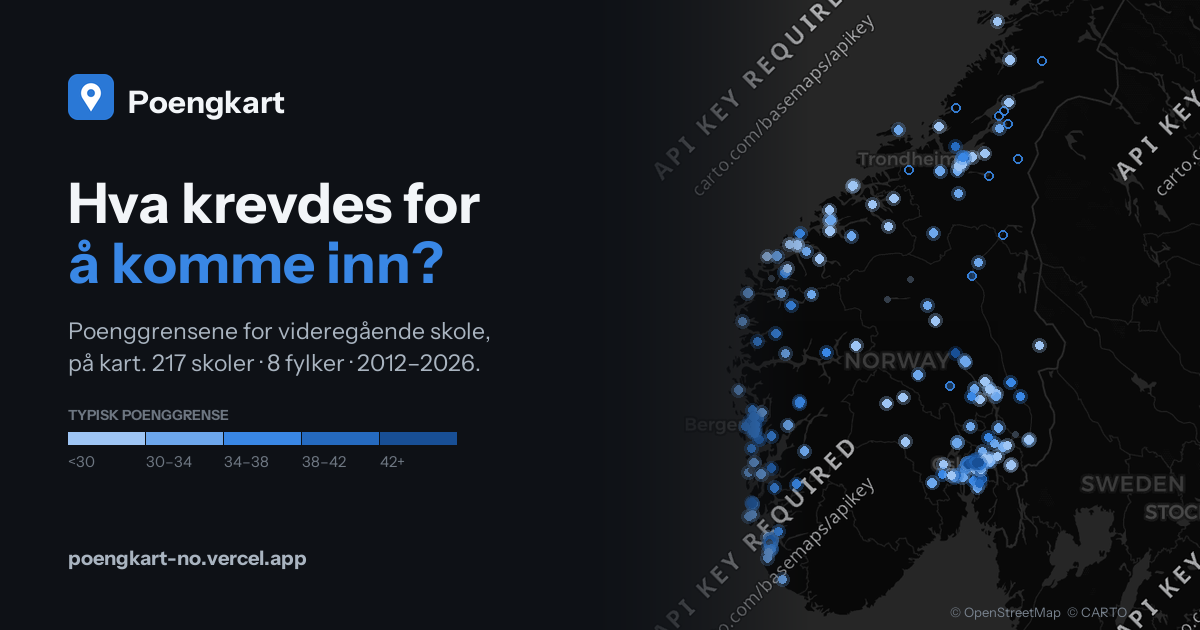
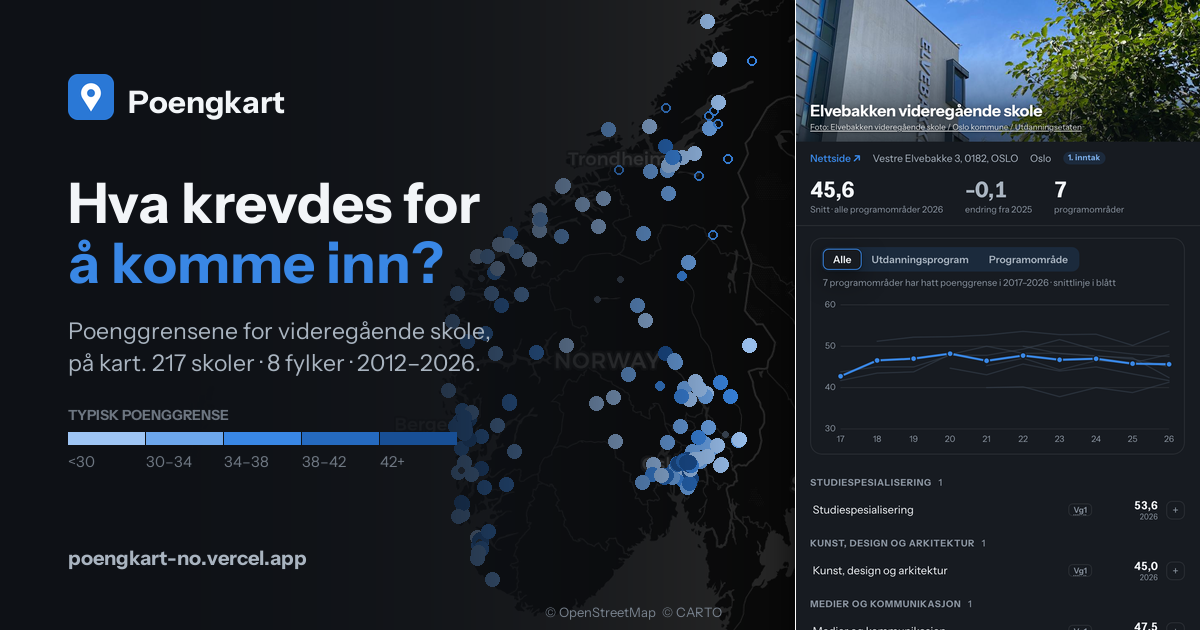
The share card loses its watermark and gains a school
The card fetched CARTO tiles without the key the app passes, so every tile
came back stamped API KEY REQUIRED; the key is now read from the page, where
the one copy of it lives.

It also shows what the app is for. The right-hand edge carries Elvebakken's
own school page — photo, the 45,6 headline, ten years of chart — photographed
from a local copy of web/ rather than mocked up, so the card cannot advertise
a layout the site does not have. The map keeps the rest of the width with
Norway and its dots still legible behind the text.

The capture wants Playwright. Every successful one is written to
tools/og-panel.png, so a refresh on a machine with no browser still builds a
correct card from the last photograph instead of failing.

diff --git a/tools/make_og.py b/tools/make_og.py
@@ -2,30 +2,47 @@
 """Render web/og.png — the 1200x630 card that messaging apps and social
 networks show when someone pastes the link.
 
-It is drawn from the real dataset on a real basemap, not mocked up: the same
-CARTO tiles the app uses, with one dot per school coloured by the same five
-threshold bins as the in-app legend. A preview that shows the actual map is
-also the honest thing to put in front of someone deciding whether to click.
+Nothing on it is mocked up. The map is the real basemap with one dot per
+school, coloured by the same five threshold bins as the in-app legend; the
+panel down the right-hand side is the app's own school page, photographed
+from a local copy of web/ so the card can never advertise a layout the site
+does not have. A preview that shows the actual product is also the honest
+thing to put in front of someone deciding whether to click.
+
+The capture needs Playwright:
+
+    .venv/bin/pip install playwright
+    .venv/bin/playwright install chromium-headless-shell
+
+Without it the build falls back to tools/og-panel.png, the last capture,
+which is committed for exactly that reason — a refresh on a machine with no
+browser still produces a correct card, only an older photograph of the panel.
 
 Attribution for the tiles is painted onto the card itself, because an image
 travels without the page that credits them.
 """
+import functools
+import http.server
 import io
 import json
 import math
 import os
+import re
+import socketserver
+import threading
 import urllib.request
 
 from PIL import Image, ImageDraw, ImageFilter, ImageFont
 
 HERE = os.path.dirname(os.path.abspath(__file__))
 WEB = os.path.join(HERE, '..', 'web')
+INDEX = os.path.join(WEB, 'index.html')
 DATA = os.path.join(WEB, 'data', 'schools.json')
 CACHE = os.path.join(HERE, '.cache')
+PANEL_FALLBACK = os.path.join(HERE, 'og-panel.png')
 UA = {'User-Agent': 'poengkart/0.1 (og image build)'}
 
 W, H = 1200, 630
-MAP_W = 620                      # right-hand map panel
 BG = (14, 17, 22)                # --page, dark
 INK = (242, 245, 248)
 INK2 = (169, 180, 192)
@@ -35,6 +52,12 @@ ACCENT = (57, 135, 229)
 BINS = [(30, (158, 197, 244)), (34, (109, 167, 236)), (38, (57, 135, 229)),
         (42, (37, 106, 191)), (99, (24, 79, 149))]
 EDGES = ['<30', '30–34', '34–38', '38–42', '42+']
+
+# The school on the card. Elvebakken has a photograph with sky and greenery in
+# it, ten years of history, and figures from a county everyone recognises.
+PANEL_SCHOOL = ('Oslo', 'Elvebakken videregående skole')
+PANEL_W = 405                    # how wide the panel is on the card
+SIDE_CSS_W = 480                 # what the app renders it at
 
 
 # ----------------------------------------------------------------- fonts
@@ -67,6 +90,18 @@ def font(size, weight='regular'):
 
 
 # ------------------------------------------------------------------ tiles
+def carto_key():
+    """The app's own CARTO key, read from the page so there is one copy of it.
+
+    Without a key the tiles come back stamped API KEY REQUIRED across the
+    diagonal — which is exactly what the shared card showed until 4 Sept 2026.
+    """
+    m = re.search(r"const CARTO_KEY = '([^']+)'", open(INDEX, encoding='utf-8').read())
+    if not m:
+        raise SystemExit('CARTO_KEY not found in web/index.html')
+    return m.group(1)
+
+
 def merc(lat, lon, z, tile=512):
     n = 2 ** z
     x = (lon + 180) / 360 * n * tile
@@ -77,6 +112,7 @@ def merc(lat, lon, z, tile=512):
 
 def basemap(cx_lat, cx_lon, z, win_w, win_h, tile=512):
     """Stitch CARTO dark tiles into a window centred on a point."""
+    key = carto_key()
     cx, cy = merc(cx_lat, cx_lon, z, tile)
     x0, y0 = cx - win_w / 2, cy - win_h / 2
     tx0, ty0 = int(x0 // tile), int(y0 // tile)
@@ -85,7 +121,7 @@ def basemap(cx_lat, cx_lon, z, win_w, win_h, tile=512):
     for tx in range(tx0, tx1 + 1):
         for ty in range(ty0, ty1 + 1):
             url = (f'https://a.basemaps.cartocdn.com/dark_all/{z}/{tx}/{ty}'
-                   f'{"@2x" if tile == 512 else ""}.png')
+                   f'{"@2x" if tile == 512 else ""}.png?key={key}')
             try:
                 blob = urllib.request.urlopen(
                     urllib.request.Request(url, headers=UA), timeout=25).read()
@@ -131,6 +167,87 @@ def colour(v):
     return next(c for edge, c in BINS if v < edge)
 
 
+# ------------------------------------------------------------------ the panel
+class _Quiet(http.server.SimpleHTTPRequestHandler):
+    def log_message(self, *a):
+        pass
+
+
+def serve_web():
+    """Serve web/ on a free port, so the panel is photographed from the build
+    that is about to ship rather than from whatever production still has."""
+    handler = functools.partial(_Quiet, directory=os.path.abspath(WEB))
+    srv = socketserver.TCPServer(('127.0.0.1', 0), handler)
+    threading.Thread(target=srv.serve_forever, daemon=True).start()
+    return srv, f'http://127.0.0.1:{srv.server_address[1]}/'
+
+
+def capture_panel(css_h):
+    """Photograph the app's school page: the real photo, figures and chart.
+
+    Two pieces of chrome are hidden first. The close button is a control, not
+    content, and the "skriv inn poengene dine" nudge asks the reader to type
+    into a field the card does not have.
+    """
+    from playwright.sync_api import sync_playwright
+    fylke, name = PANEL_SCHOOL
+    srv, base = serve_web()
+    try:
+        with sync_playwright() as p:
+            b = p.chromium.launch()
+            ctx = b.new_context(viewport={'width': 1500, 'height': 1100},
+                                device_scale_factor=2, color_scheme='dark', locale='nb-NO')
+            ctx.add_init_script("""
+                localStorage.setItem('pk-theme', 'dark');
+                localStorage.setItem('pk-intro-v1', '1');
+                localStorage.setItem('pk-help-hint', '9');
+                localStorage.removeItem('pk-points');
+            """)
+            page = ctx.new_page()
+            url = f'{base}#s={urllib.request.quote(fylke)}/{urllib.request.quote(name)}'
+            page.goto(url, wait_until='networkidle')
+            page.reload(wait_until='networkidle')
+            page.wait_for_selector('#side .chart-card', timeout=30000)
+            page.wait_for_timeout(2500)
+            page.evaluate("""() => {
+                document.querySelectorAll('#side .close').forEach(e => e.style.display = 'none');
+                document.querySelectorAll('#side .chance').forEach(e => {
+                    if (/Skriv inn|Enter your/.test(e.textContent)) e.style.display = 'none';
+                });
+            }""")
+            page.wait_for_timeout(400)
+            got = page.evaluate("""() => {
+                const r = document.querySelector('#side .scroll').getBoundingClientRect();
+                const n = document.querySelector('#s-photo .name');
+                return { x: r.x, y: r.y, w: r.width, name: n ? n.textContent.trim() : '' };
+            }""")
+            if not got['name'].startswith(name):
+                raise RuntimeError(f'the panel shows {got["name"]!r}, not {name!r}')
+            blob = page.screenshot(clip={'x': got['x'], 'y': got['y'],
+                                         'width': got['w'], 'height': css_h},
+                                   animations='disabled', timeout=60000)
+            b.close()
+    finally:
+        srv.shutdown()
+    im = Image.open(io.BytesIO(blob)).convert('RGB')
+    im.save(PANEL_FALLBACK, optimize=True)     # keep the fallback current
+    return im.convert('RGBA')
+
+
+def panel_image(css_h):
+    try:
+        im = capture_panel(css_h)
+        print(f'  panel captured from the local build: {PANEL_SCHOOL[1]}')
+        return im
+    except Exception as e:
+        if not os.path.exists(PANEL_FALLBACK):
+            raise SystemExit(f'no panel: capture failed ({type(e).__name__}: {e}) '
+                             f'and {PANEL_FALLBACK} is missing')
+        print(f'  panel capture skipped ({type(e).__name__}: {e}); '
+              f'using the committed tools/og-panel.png')
+        return Image.open(PANEL_FALLBACK).convert('RGBA')
+
+
 # ------------------------------------------------------------------ card
 def main():
     data = json.load(open(DATA))
@@ -142,19 +259,20 @@ def main():
     cx_lat = (max(lats) + min(lats)) / 2
     cx_lon = (max(lons) + min(lons)) / 2
 
+    # the map fills the whole card; the panel is laid over its right-hand end
     z, tile = 5, 512
     span_y = merc(min(lats), cx_lon, z, tile)[1] - merc(max(lats), cx_lon, z, tile)[1]
     win_h = span_y * 1.13                      # a little sea above and below
-    win_w = win_h * MAP_W / H
-    panel, (x0, y0) = basemap(cx_lat, cx_lon, z, win_w, win_h, tile)
-    scale = MAP_W / win_w
-    panel = panel.resize((MAP_W, H), Image.LANCZOS)
+    win_w = win_h * W / H
+    m, (x0, y0) = basemap(cx_lat, cx_lon, z, win_w, win_h, tile)
+    scale = W / win_w
+    m = m.resize((W, H), Image.LANCZOS).convert('RGBA')
 
-    d = ImageDraw.Draw(panel, 'RGBA')
+    d = ImageDraw.Draw(m, 'RGBA')
     for lat, lon, v in pts:
         px, py = merc(lat, lon, z, tile)
         x, y = (px - x0) * scale, (py - y0) * scale
-        if not (-20 < x < MAP_W + 20 and -20 < y < H + 20):
+        if not (-20 < x < W + 20 and -20 < y < H + 20):
             continue
         if v is None:
             d.ellipse([x - 3, y - 3, x + 3, y + 3], fill=(58, 69, 83, 220))
@@ -167,18 +285,35 @@ def main():
             d.ellipse([x - 7, y - 7, x + 7, y + 7], fill=c + (70,))
             d.ellipse([x - 4.2, y - 4.2, x + 4.2, y + 4.2], fill=c + (255,))
 
-    card = Image.new('RGB', (W, H), BG)
-    # fade the map's left edge into the text column (paste through the mask
-    # only — an opaque paste first would leave a hard seam)
-    fade = Image.new('L', (MAP_W, H), 255)
+    card = Image.new('RGBA', (W, H), BG + (255,))
+    # fade the map out under the text column (paste through the mask only —
+    # an opaque paste first would leave a hard seam)
+    fade = Image.new('L', (W, H), 255)
     fd = ImageDraw.Draw(fade)
-    for i in range(230):
-        fd.line([(i, 0), (i, H)], fill=int(255 * (i / 230) ** 1.6))
-    card.paste(panel, (W - MAP_W, 0), fade)
+    for i in range(760):
+        fd.line([(i, 0), (i, H)], fill=int(255 * (i / 760) ** 2.7))
+    card.paste(m, (0, 0), fade)
 
     d = ImageDraw.Draw(card, 'RGBA')
+    d.text((W - PANEL_W - 250, H - 26), '© OpenStreetMap  © CARTO',
+           font=font(13), fill=(120, 130, 142))
+
+    # the app's own school page, edge to edge down the right
+    css_h = math.ceil(H * SIDE_CSS_W / PANEL_W) + 6
+    p = panel_image(css_h)
+    p = p.resize((PANEL_W, int(p.size[1] * PANEL_W / p.size[0])), Image.LANCZOS)
+    if p.size[1] < H:
+        raise SystemExit(f'the panel capture is {p.size[1]}px tall, short of the '
+                         f'card: recapture it at {css_h} css pixels')
+    p = p.crop((0, 0, PANEL_W, H))
+    px = W - PANEL_W
+    sh = Image.new('RGBA', (W, H), (0, 0, 0, 0))
+    ImageDraw.Draw(sh).rectangle([px, 0, W, H], fill=(0, 0, 0, 190))
+    card.alpha_composite(sh.filter(ImageFilter.GaussianBlur(18)))
+    card.paste(p, (px, 0))
+    d.line([(px, 0), (px, H)], fill=(255, 255, 255, 26), width=1)
+
     x = 68
-    # brand
     icon = Image.open(os.path.join(WEB, 'favicon-192.png')).convert('RGBA') \
                 .resize((46, 46), Image.LANCZOS)
     card.paste(icon, (x, 74), icon)
@@ -204,10 +339,9 @@ def main():
         d.text((x + i * lw, ly + 20), EDGES[i], font=font(15), fill=INK3)
 
     d.text((x, 545), 'poengkart-no.vercel.app', font=font(20, 'bold'), fill=INK2)
-    d.text((W - 250, H - 26), '© OpenStreetMap  © CARTO', font=font(13), fill=(120, 130, 142))
 
     out = os.path.join(WEB, 'og.png')
-    card.save(out, optimize=True)
+    card.convert('RGB').save(out, optimize=True)
     print(f'{out}  {os.path.getsize(out)//1024} KB  ({len(pts)} schools plotted)')
 
 

diff --git a/tools/refresh.py b/tools/refresh.py
@@ -25,7 +25,7 @@ STEPS = [
     ('photos.py', 'curated photo and identity overrides'),
     ('model.py', 'the forecast: fit, walk-forward backtest, web/data/model.json'),
     ('build_db.py', 'SQLite + CSV, including the forecasts'),
-    ('make_og.py', 'the social share card, which is drawn from the data'),
+    ('make_og.py', 'the social share card: the map from the data, the school panel photographed from web/'),
     ('report_figures.py', 'the technical report’s figures, from model.json'),
     ('build_report_page.py', 'docs/technical-report.md → web/report.html'),
     ('test_parse.py', 'regression checks on the dataset'),

diff --git a/README.md b/README.md
@@ -48,6 +48,11 @@ freedom-of-information requests), and the Python environment in `.venv`:
 .venv/bin/python3 tools/refresh.py
 ```
 
+One step of that pipeline, the share card, photographs the app's own school
+panel and so wants a browser: `pip install playwright` and `playwright install
+chromium-headless-shell`. Without one the card still builds, reusing the last
+capture in `tools/og-panel.png`.
+
 The same files are mirrored to a public bucket, with every file's SHA-256 in
 `sources/manifest.json`; `tools/sources_r2.py fetch` restores a missing
 `sources/` from there and verifies each file against the manifest.
